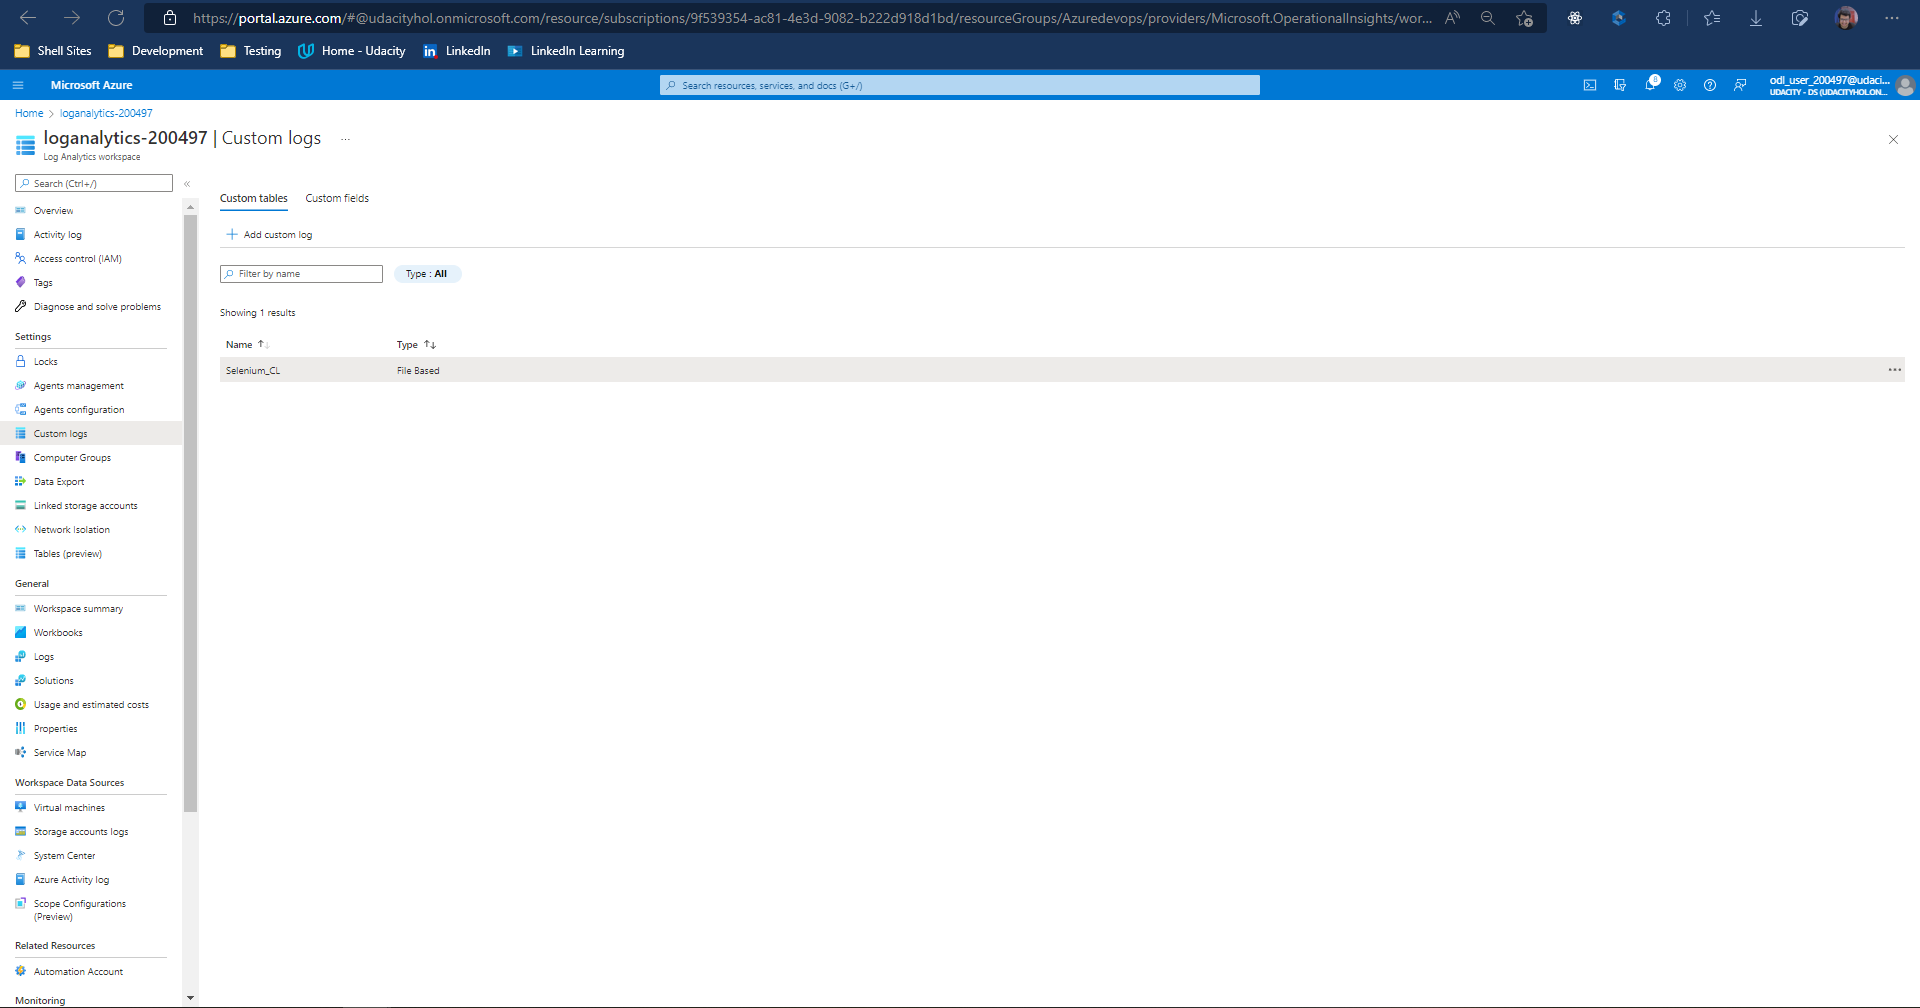
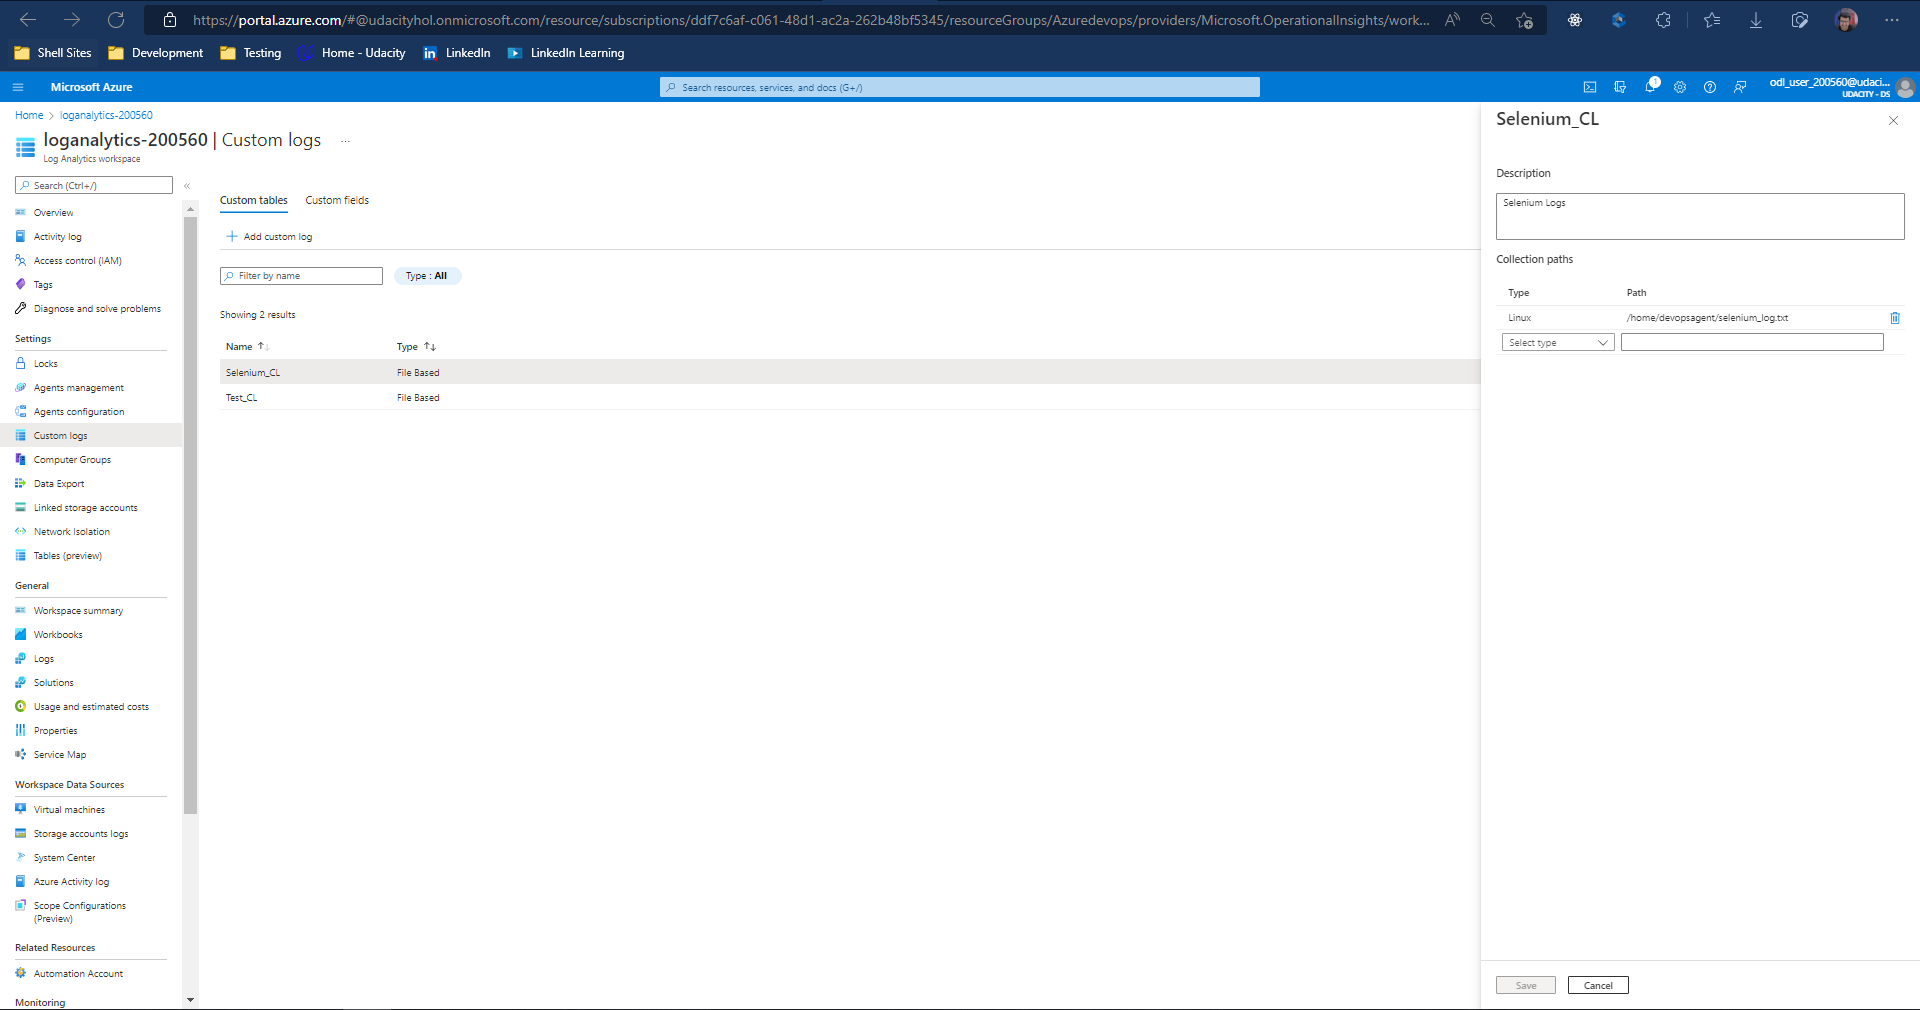
Added Custom Logs Proof

diff --git a/README.md b/README.md
@@ -100,9 +100,13 @@ There is an Azure Pipeline implemented in the project which deploys code into th
 
 ![image](./screenshots/App_Service_Graphs.PNG)
 
-- Custom Logs
+- Custom Logs Setup
 
 ![image](./screenshots/Custom_Logs.PNG)
+
+- Custom Logs
+
+![image](./screenshots/Custom_Logs_in_Log_Analytics.PNG)
 
 - Alert in Azure Portal
 
